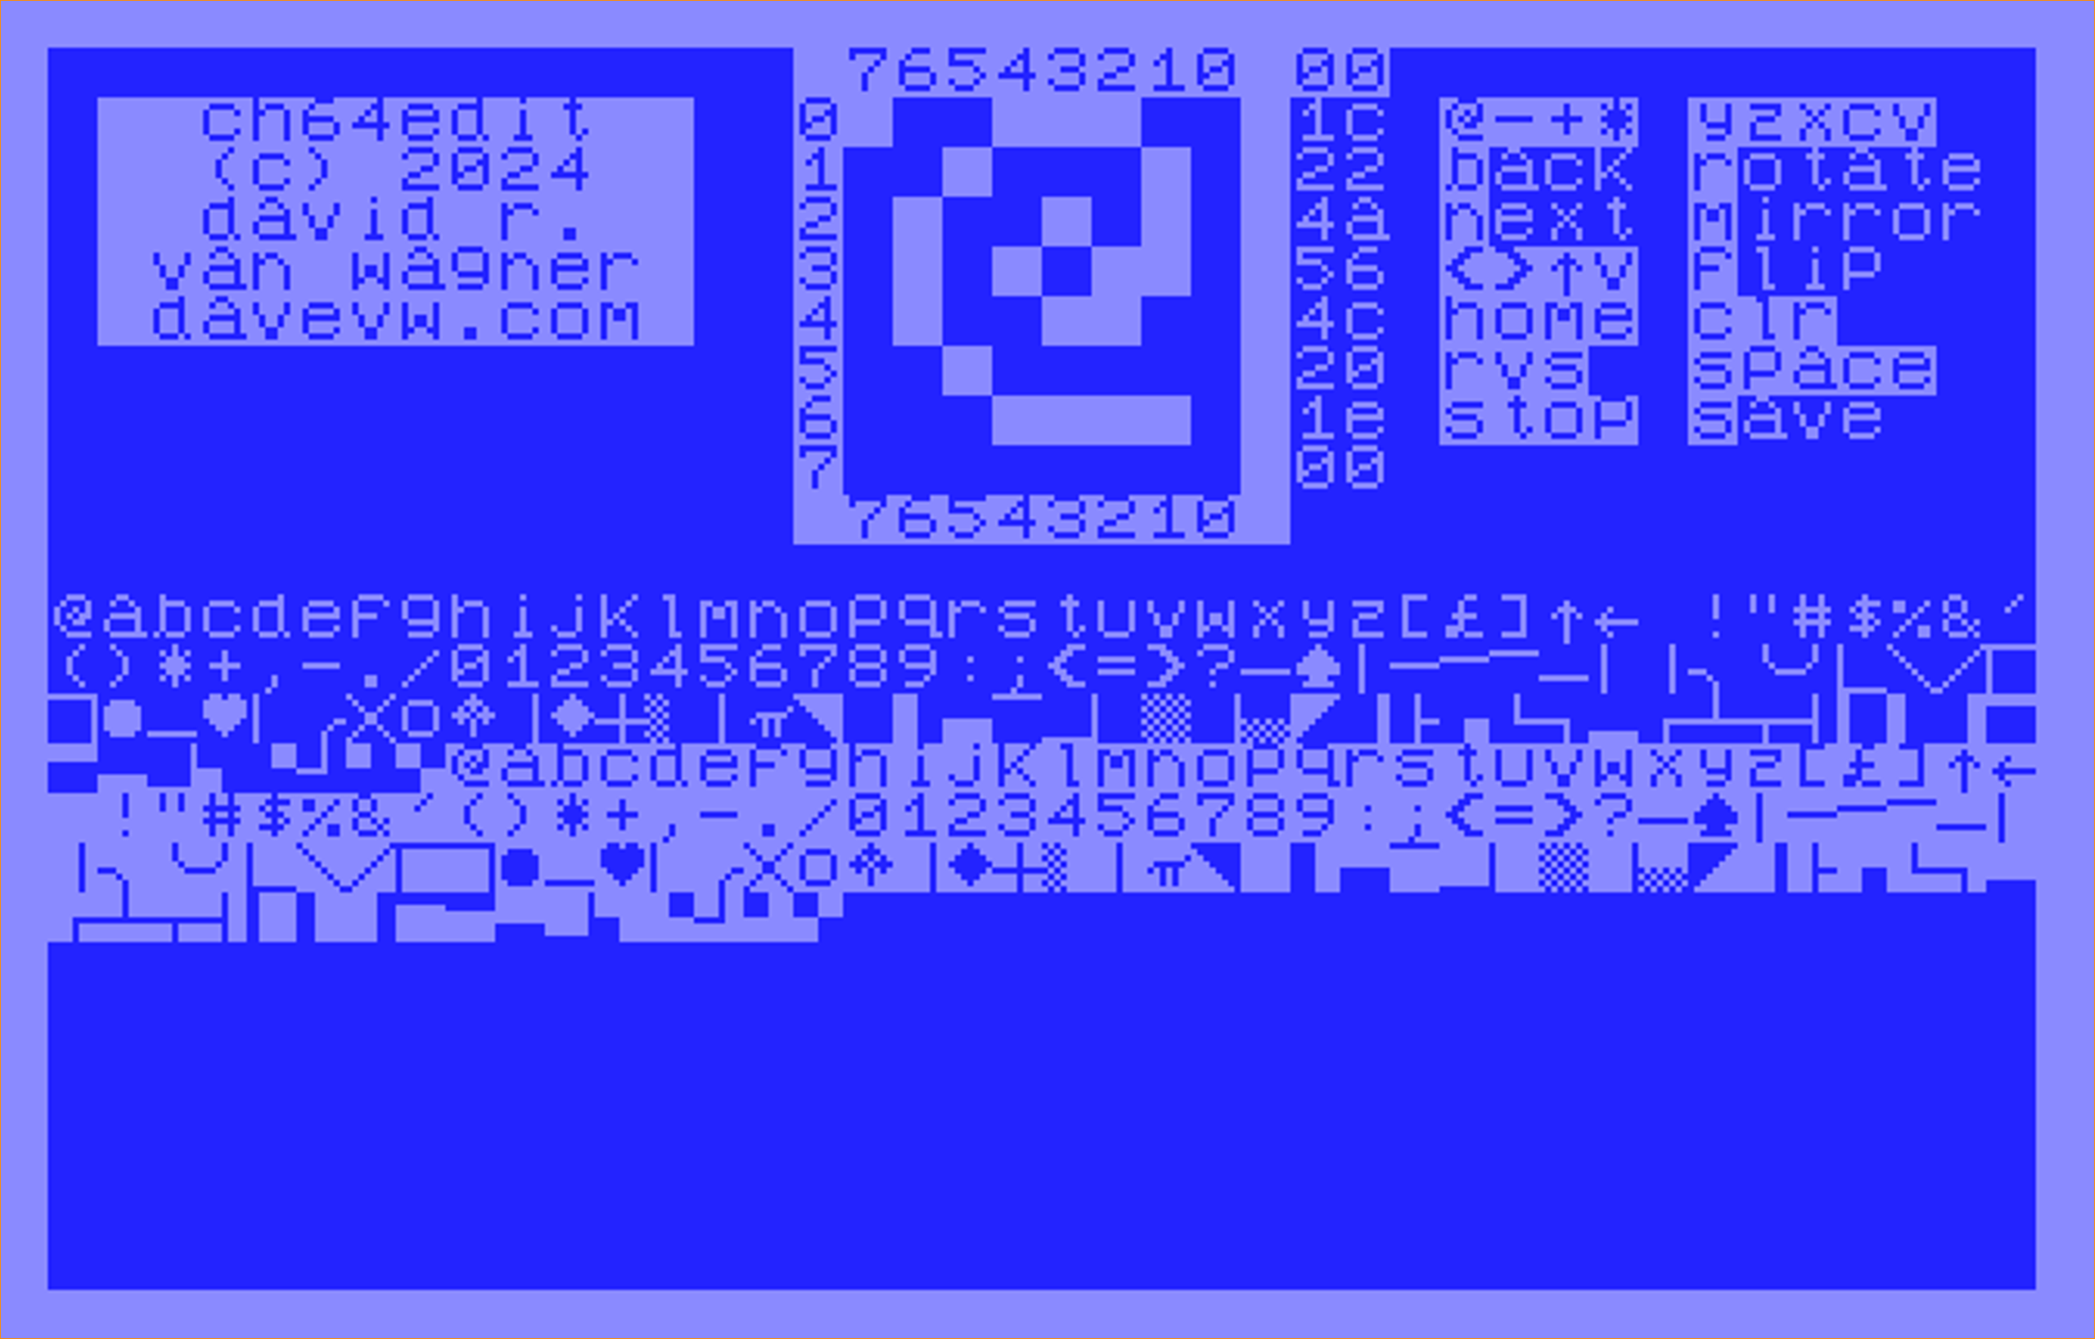
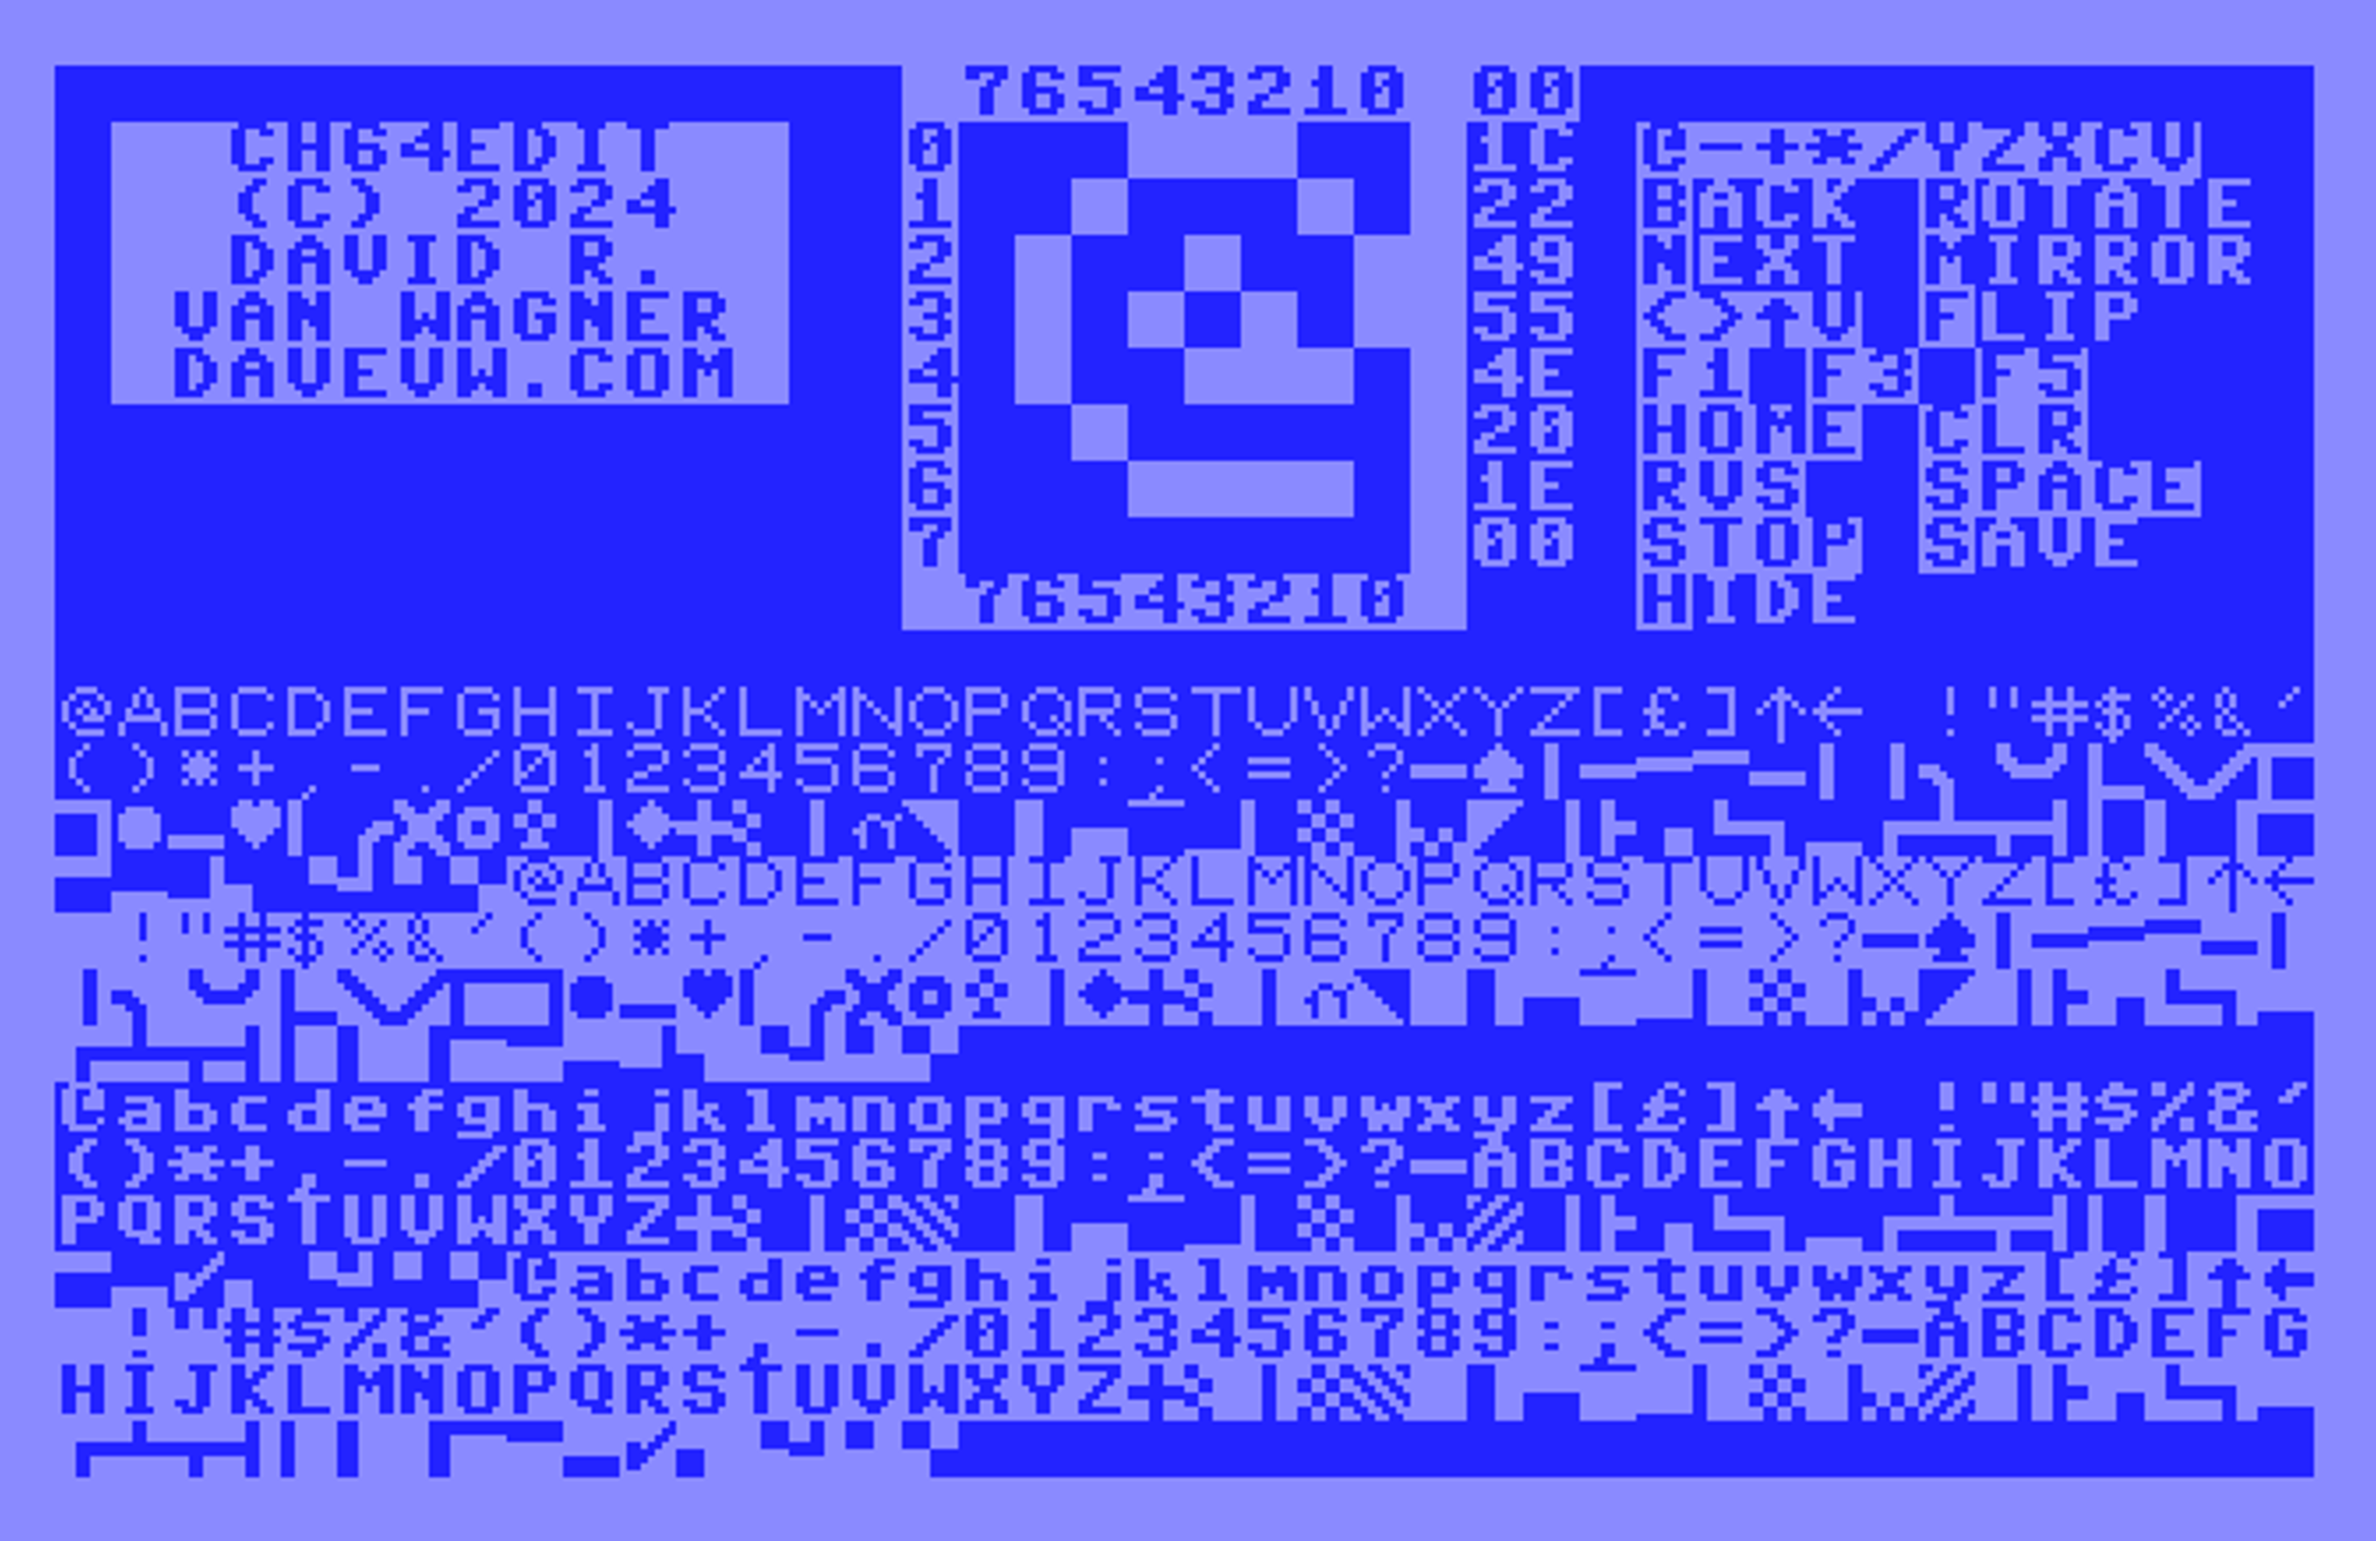
two sets on screen, and update memory map, hint to instructions

Changed region(s): [[0.0, 0.0, 1.0, 1.0], [0.0312, 0.0307, 0.3746, 0.2767]]

diff --git a/README.md b/README.md
@@ -10,7 +10,7 @@ Note: saves to FONT.BIN overwriting any existing file.   Manual load from BASIC 
 LOAD "FONT.BIN",8,1
 ``
 
-And wrote a [blog entry](https://techwithdave.davevw.com/2024/04/edit-vic-20-programmable-characters.html).
+And wrote a [blog entry](https://techwithdave.davevw.com/2024/04/edit-vic-20-programmable-characters.html).  Includes more details on keys for operations.
 
 ![prototype](media/functional.png)
 
@@ -19,6 +19,7 @@ Abbreviated Memory map - C64
     0000-03FF lower RAM
     0400-07FF video RAM
     0800-17FF character RAM sets (was program RAM) ****
+    3800-3FFF duplicate of second character set (temporary for display on screen)
     1800-9FFF program RAM (reduced)
     D000-D7FF character RAM set 1 (uppercase/graphics) -- banked
     D800-DFFF character RAM set 2 (lowercase/uppercase) -- banked
